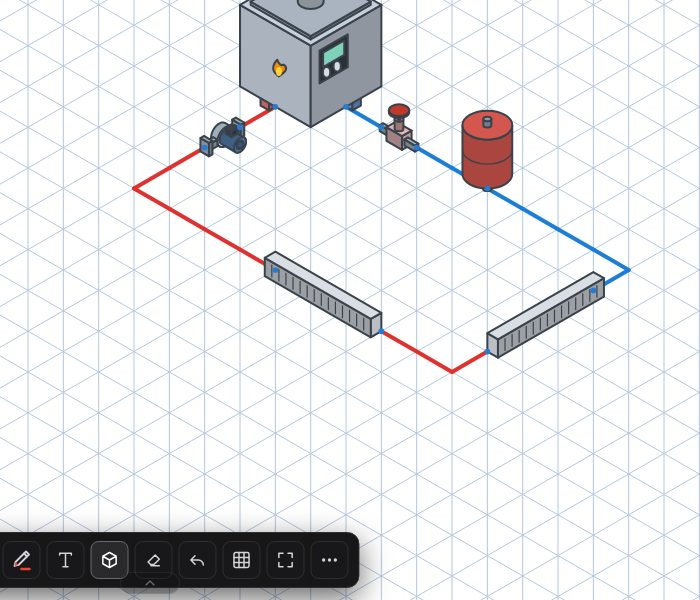
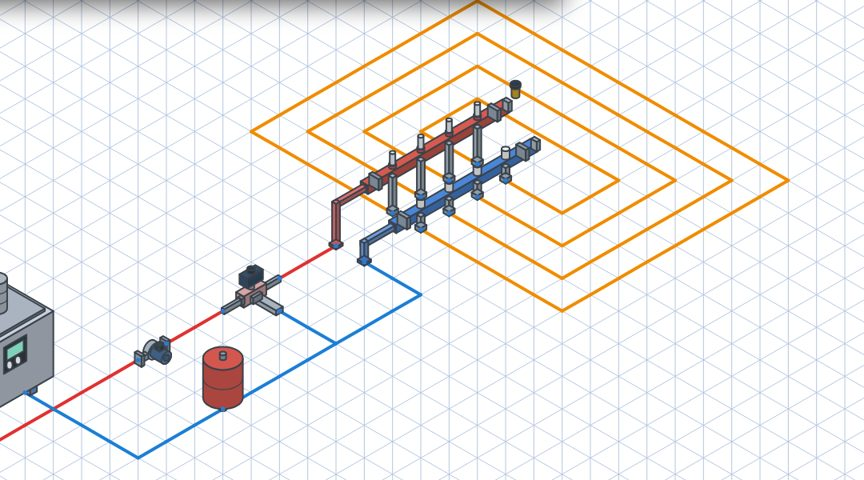
Modèles iso plus complets : 2 étages avec vannes de zone, plancher radiant
Claude-Session: https://claude.ai/code/session_0132P7fSy2K8VC3HWdnHumMj

diff --git a/index.html b/index.html
@@ -3437,7 +3437,7 @@ const MODELES = [
     f:[[[0,4],[0,1]], [[2,1],[4,1]], [[6,1],[8,1]], [[10,1],[10,4]], [[10,4],[2,4]]] }
 ];
 function nouveauTableau(fond){ if (!RD.wb) toggleWb(); const st = wbEtat(); if (strokes().length){ st.count++; st.n = st.count; } st.bg[st.n] = fond || st.bg[st.n] || "blanc"; majFond(); redrawInk(); refreshTools(); }
-/* Modèles du plan isométrique : objets [clé, m, n, miroir, debout] et tuyaux [couleur, [[m, n, h], …]] en pas de la grille iso */
+/* Modèles du plan isométrique : objets [clé, m, n, miroir, debout, hauteur] et tuyaux [couleur, [[m, n, h], …]] en pas de la grille iso */
 const ROUGE_ISO = "#e03131", BLEU_ISO = "#1c7ed6";
 const MODELES_ISO = [
   { id:"iso-pompe", nom:"Pompe avec vannes d'isolement", txt:"Une conduite avec une vanne de chaque côté de la pompe circulatrice, pour la sortir sans vider le système.",
@@ -3449,15 +3449,28 @@ const MODELES_ISO = [
   { id:"iso-boucle", nom:"Boucle de chauffage avec plinthes", txt:"Chaudière, pompe sur le départ, deux plinthes chauffantes, vanne et vase d'expansion sur le retour.",
     o:[["chaudiere", 0, 0], ["pompe", -2, 1], ["plinthe", -4, 8, 1], ["plinthe", -3, 10], ["vanne", 1, 4, 1], ["vase", 1, 6]],
     t:[[ROUGE_ISO, [[0, 1, 0], [-1, 1, 0]]], [ROUGE_ISO, [[-2, 1, 0], [-4, 1, 0], [-4, 5, 0]]], [ROUGE_ISO, [[-4, 8, 0], [-4, 10, 0], [-3, 10, 0]]],
-       [BLEU_ISO, [[0, 10, 0], [1, 10, 0], [1, 4, 0]]], [BLEU_ISO, [[1, 3, 0], [1, 2, 0]]]] }
+       [BLEU_ISO, [[0, 10, 0], [1, 10, 0], [1, 4, 0]]], [BLEU_ISO, [[1, 3, 0], [1, 2, 0]]]] },
+  { id:"iso-2zones", nom:"Chauffage sur 2 étages avec vannes de zone", txt:"Chaudière, pompe, deux zones commandées par des vannes motorisées : plinthe et radiateur au rez-de-chaussée; colonne montante, radiateur et plinthe à l'étage; retour commun avec vanne et vase d'expansion.",
+    o:[["chaudiere", 0, 0], ["pompe", -3, 1], ["vannemot", -5, 4, 1], ["plinthe", -5, 9, 1], ["radiateur", -3, 11], ["vannemot", -7, 1, 0, 1, 1], ["radiateur", -12, 1, 0, 0, 4], ["plinthe", -13, -3, 0, 0, 4], ["vanne", 1, 4, 1], ["vase", 1, 6]],
+    t:[[ROUGE_ISO, [[0, 1, 0], [-2, 1, 0]]], [ROUGE_ISO, [[-3, 1, 0], [-7, 1, 0]]], [ROUGE_ISO, [[-5, 1, 0], [-5, 3, 0]]], [ROUGE_ISO, [[-5, 4, 0], [-5, 6, 0]]],
+       [BLEU_ISO, [[-5, 9, 0], [-5, 11, 0], [-3, 11, 0]]], [BLEU_ISO, [[-1, 11, 0], [1, 11, 0], [1, 4, 0]]], [BLEU_ISO, [[1, 3, 0], [1, 2, 0]]],
+       [ROUGE_ISO, [[-7, 1, 0], [-7, 1, 1]]], [ROUGE_ISO, [[-7, 1, 2], [-7, 1, 4], [-10, 1, 4]]], [BLEU_ISO, [[-12, 1, 4], [-14, 1, 4], [-14, -3, 4], [-13, -3, 4]]],
+       [BLEU_ISO, [[-10, -3, 4], [-9, -3, 4], [-9, -3, 0], [-9, 12, 0], [1, 12, 0], [1, 11, 0]]]] },
+  { id:"iso-radiant", nom:"Plancher radiant avec collecteur 4 boucles", txt:"Chaudière, pompe et vanne 3 voies (eau tempérée), collecteur à 4 boucles de plancher radiant, retour vers la chaudière avec dérivation vers la vanne 3 voies et vase d'expansion.",
+    o:[["collecteur4", 0, 0], ["vanne3", -5, 0], ["pompe", -8, 0], ["chaudiere", -12, -3], ["vase", -8, 3]],
+    t:[[ROUGE_ISO, [[-12, -2, 0], [-13, -2, 0], [-13, 0, 0], [-8, 0, 0]]], [ROUGE_ISO, [[-7, 0, 0], [-5, 0, 0]]], [ROUGE_ISO, [[-3, 0, 0], [-1, 0, 0]]],
+       [BLEU_ISO, [[-1, 1, 0], [-1, 3, 0], [-11, 3, 0], [-11, -1, 0]]], [BLEU_ISO, [[-4, 3, 0], [-4, 1, 0]]],
+       ...[0, 1, 2, 3].map(i => ["#f08c00", [[i + 1, 0, 0], [i + 1, i - 5, 0], [9 - i, i - 5, 0], [9 - i, 6 - i, 0], [i + 1, 6 - i, 0], [i + 1, 1, 0]]])] }
 ];
 function poserModeleIso(m){
   nouveauTableau("iso");
   const c = $("#inkCanvas"), r = c.getBoundingClientRect(), S = $("#rstage").getBoundingClientRect(), W = c.width, H = c.height, k = W / r.width, a = 34 * RD.z * 1.2 * k, d = a * .8660254;
-  const cx = ((S.left + S.width * .55) - r.left) * k, cy = ((S.top + S.height * .42) - r.top) * k, i0 = Math.round(cx / d), j0 = Math.round(cy / a - (i0 & 1) * .5);   /* origine sur un point de la grille, vers le centre de l'écran */
+  const pts = m.o.map(o => [o[1], o[2], o[5] || 0]).concat(m.o.map(o => [o[1], o[2], (o[5] || 0) + (o[0] === "chaudiere" ? 3 : 1.5)]), ...m.t.map(t => t[1])), rel = pts.map(([mm, nn, hh]) => [(mm + nn) * d, (nn - mm) * a / 2 - (hh || 0) * a]);   /* le modèle est centré dans l'écran (à droite de la palette) */
+  const ob = $("#objBar"), gauche = ob && !ob.hidden && ob.offsetParent ? ob.getBoundingClientRect().right + 20 : S.left, mx = (Math.min(...rel.map(q => q[0])) + Math.max(...rel.map(q => q[0]))) / 2, my = (Math.min(...rel.map(q => q[1])) + Math.max(...rel.map(q => q[1]))) / 2;
+  const cx = ((gauche + S.right) / 2 - r.left) * k - mx, cy = ((S.top + S.bottom) / 2 - r.top) * k - my - a, i0 = Math.round(cx / d), j0 = Math.round(cy / a - (i0 & 1) * .5);   /* origine sur un point de la grille */
   const x0 = i0 * d, y0 = (j0 + (i0 & 1) * .5) * a, G = (mm, nn, hh) => [(x0 + (mm + nn) * d) / W, (y0 + (nn - mm) * a / 2 - (hh || 0) * a) / H], arr = strokes();
   m.t.forEach(([col, pts]) => { for (let i = 0; i + 1 < pts.length; i++){ const n = { c:col, hl:false, hc:null, w:4, t:"ligne", p:[G(...pts[i]), G(...pts[i + 1])] }; (decouperIso(n) || [n]).forEach(x => arr.push(x)); } });
-  m.o.forEach(([kk, mm, nn, mir, deb]) => { const o = { t:"objet", k:kk, o:mir ? 1 : 0, c:"#24282c", p:[G(mm, nn, 0)], w:4 }; if (deb) o.v = deb; arr.push(o); });
+  m.o.forEach(([kk, mm, nn, mir, deb, hh]) => { const o = { t:"objet", k:kk, o:mir ? 1 : 0, c:"#24282c", p:[G(mm, nn, hh || 0)], w:4 }; if (deb) o.v = deb; arr.push(o); });
   REFS[inkKey()] = baseCanevas(); redrawInk();
   aviser("Modèle « " + m.nom + " » posé. Touche un objet pour le déplacer, double-clic pour ajouter un texte ou une cote.", 5000);
 }

diff --git a/CLAUDE.md b/CLAUDE.md
@@ -95,7 +95,7 @@
 - **Tableau blanc / crayon** : traits normalisés dans `INKS[inkKey()]`, `REFS`, `recalerWb()`; pendant un trait, ne jamais appeler `redrawInk()` à chaque mouvement (trop lent) : trait libre dessiné par bouts (`dessinerEnCours`), formes et surligneur sur une copie `fond`, gomme via `redrawBientot()` (une fois par image); fonds blanc/quadrillé/iso/…;
   tableaux gardés (`tableauxSauves`), « Mes schémas » (`mesSchemas`, export `.schema.json` type `schema-pavillon`); bouton `#objSch` « Mes modèles » en haut de la palette, hors des groupes, donc dans les 4 onglets (hors Électricité, il ouvre l'onglet « Mes schémas » pour enregistrer).
 - **Schémas électriques en échelle** : catalogue `ELEC`/`ELEC_CAT`, `dessinerElec`, fils `{t:"ligne", fil:true}`,
-  simulateur `SIM`/`simCalc` (courant animé L1→L2, relais temporisés, « Trouve la panne »), — une charge est alimentée s'il existe un chemin L1 → borne et borne → L2 à travers d'autres charges, **sans repasser par le même point** (deux recherches disjointes; l'ancienne méthode « toutes les autres charges = fils » reliait L1 à L2 par un échelon voisin); les pas de grille entre les bornes d'un symbole (`sous`) ne comptent jamais comme fil; `couperFils` enlève tout bout de fil sous un symbole et rebranche sur une borne un fil qui arrive au milieu (à égalité : borne vers L2), modèles `MODELES` (`poserModele`). Modèles iso `MODELES_ISO` (`poserModeleIso` : objets `[clé, m, n, miroir, debout]` et tuyaux `[couleur, [[m, n, h]…]]` en pas de grille, origine accrochée à un point de la grille vers le centre de l'écran; un objet en miroir a ses raccords en (M − pn, N − pm)). Dans « Mes modèles », les modèles sont en catégories `<details class="sch-cat">` fermées au départ.
+  simulateur `SIM`/`simCalc` (courant animé L1→L2, relais temporisés, « Trouve la panne »), — une charge est alimentée s'il existe un chemin L1 → borne et borne → L2 à travers d'autres charges, **sans repasser par le même point** (deux recherches disjointes; l'ancienne méthode « toutes les autres charges = fils » reliait L1 à L2 par un échelon voisin); les pas de grille entre les bornes d'un symbole (`sous`) ne comptent jamais comme fil; `couperFils` enlève tout bout de fil sous un symbole et rebranche sur une borne un fil qui arrive au milieu (à égalité : borne vers L2), modèles `MODELES` (`poserModele`). Modèles iso `MODELES_ISO` (`poserModeleIso` : objets `[clé, m, n, miroir, debout, hauteur]`, le modèle est centré à droite de la palette et tuyaux `[couleur, [[m, n, h]…]]` en pas de grille, origine accrochée à un point de la grille vers le centre de l'écran; un objet en miroir a ses raccords en (M − pn, N − pm)). Dans « Mes modèles », les modèles sont en catégories `<details class="sch-cat">` fermées au départ.
 - **Accueil de classe intégré** : overlay `#accueilOv` + iframe `#accueilFrame` (`accueil.html`). Protocole `postMessage` :
   - tableau → bibliothèque : `accueil-fermer`, `accueil-plein-ecran`, `accueil-catalogue?`, `accueil-ouvrir {contenu}`, `accueil-revenir`
   - bibliothèque → tableau : `accueil-biblio`, `accueil-catalogue {livres, modeles, schemas, dossiers}`, `accueil-plein-ecran-etat`, `accueil-livre {titre, page}`
